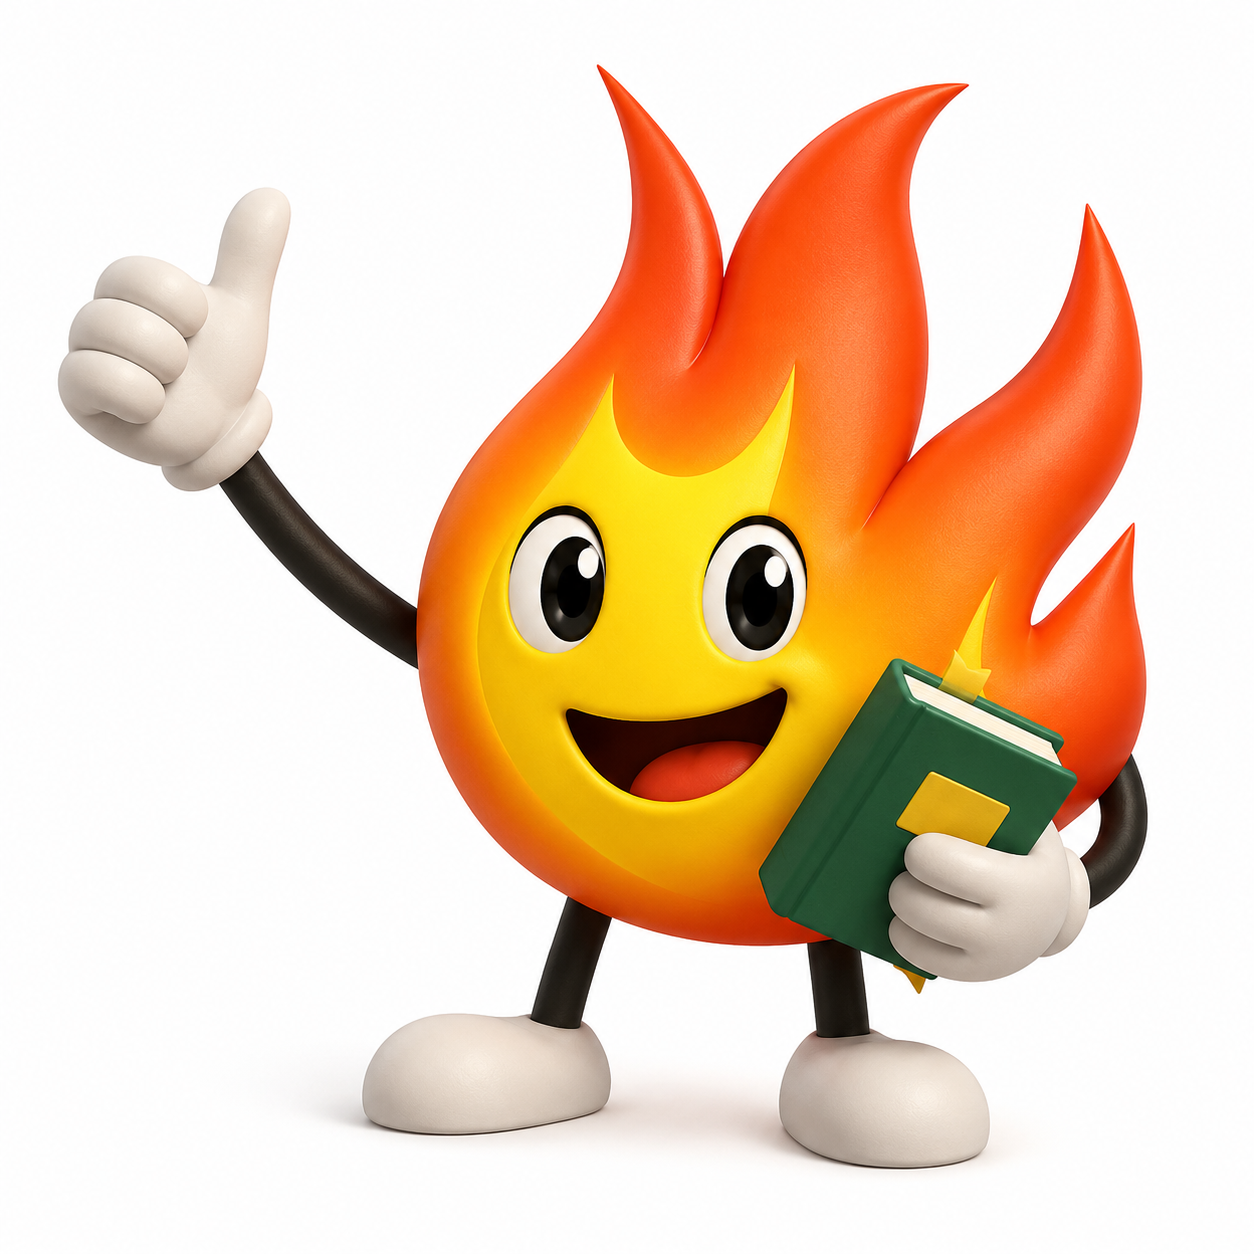
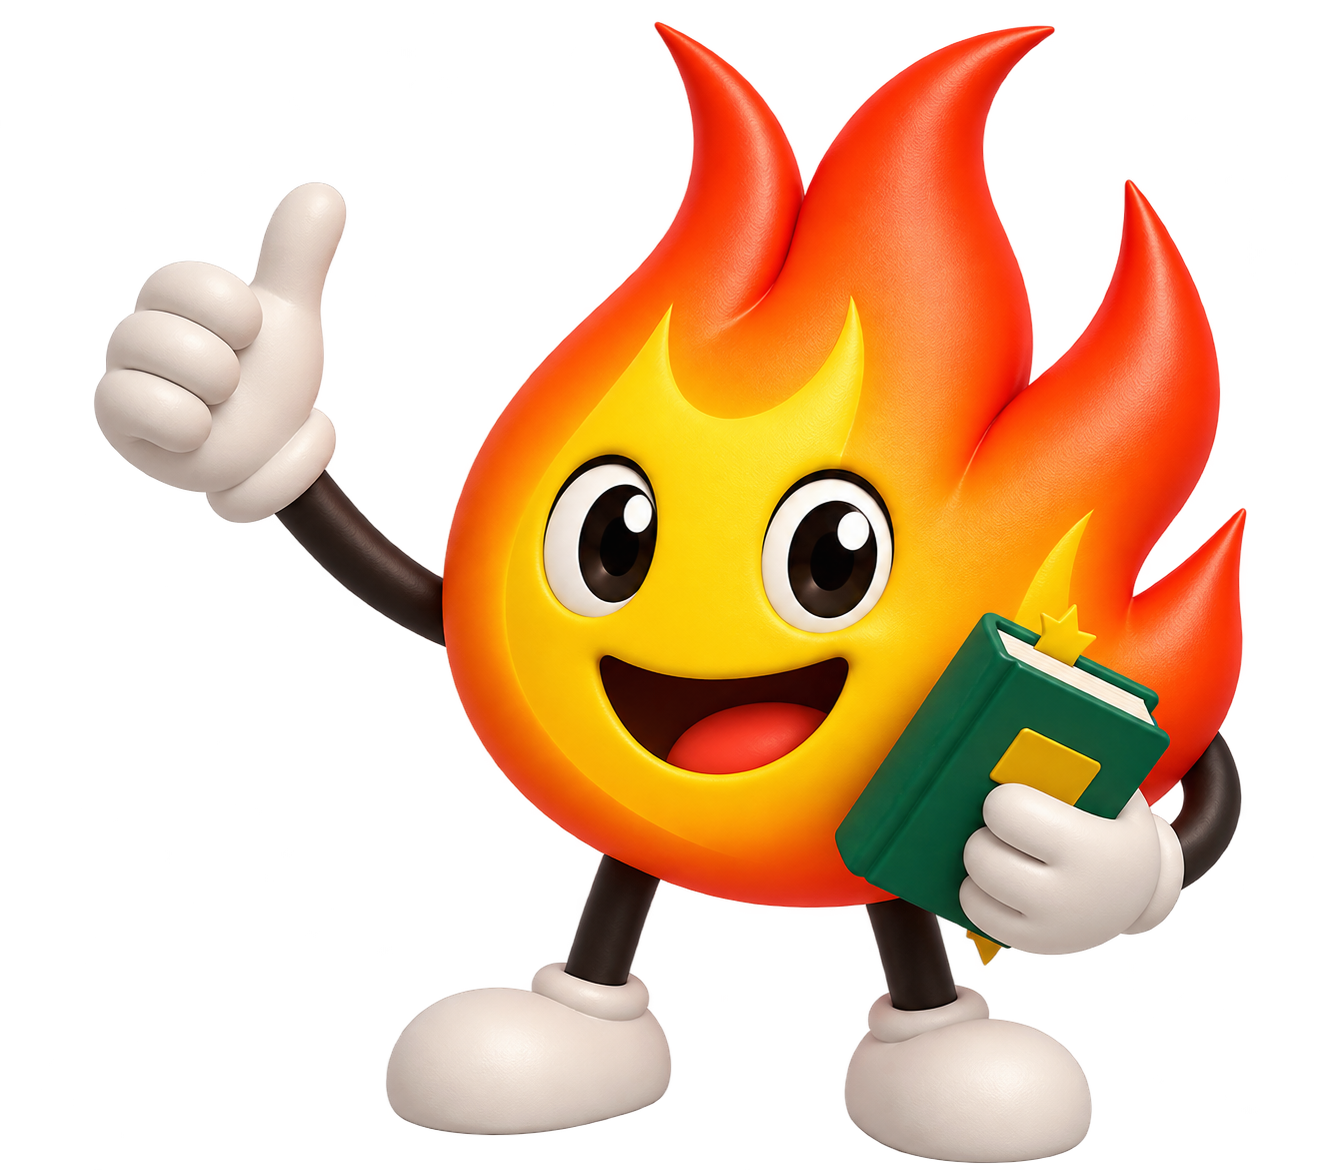
feat(ui): implement mascot FAB chat button with hover lift animation & warm glowing aura light

Changed region(s): [[0.0311, 0.0, 0.933, 1.0]]

diff --git a/frontend/src/index.css b/frontend/src/index.css
@@ -660,30 +660,68 @@ html, body, #root {
   color: var(--text-heading);
 }
 
-/* ─── FLOATING CHAT BTN ───────────────────────────────────── */
+/* ─── FLOATING MASCOT CHAT BTN ───────────────────────────────────── */
 .fab-chat {
   position: fixed;
-  bottom: 32px;
-  right: 32px;
+  bottom: 30px;
+  right: 30px;
+  width: 66px;
+  height: 66px;
+  border-radius: 50%;
+  background: var(--nm-base);
+  box-shadow: var(--shadow-raise);
+  border: 2px solid rgba(255, 122, 0, 0.4);
+  cursor: pointer;
   display: flex;
   align-items: center;
-  gap: 10px;
-  padding: 14px 22px;
-  border-radius: var(--radius-pill);
-  background: linear-gradient(135deg, #FF7A00, #E65100);
-  box-shadow: 0 6px 20px rgba(255, 122, 0, 0.4);
-  border: none;
-  cursor: pointer;
-  font-family: 'DM Sans', sans-serif;
-  font-size: 15px;
-  font-weight: 700;
-  color: #ffffff;
-  transition: all 0.15s;
+  justify-content: center;
+  transition: transform 0.35s cubic-bezier(0.34, 1.56, 0.64, 1),
+              box-shadow 0.35s ease,
+              border-color 0.35s ease;
   z-index: 100;
+  padding: 6px;
+  outline: none;
 }
 
-.fab-chat:hover { box-shadow: var(--shadow-raise); }
-.fab-chat:active { box-shadow: var(--shadow-inset-sm); }
+.fab-chat .mascot-img {
+  width: 100%;
+  height: 100%;
+  object-fit: contain;
+  filter: drop-shadow(0 4px 6px rgba(0, 0, 0, 0.15));
+  transition: transform 0.35s cubic-bezier(0.34, 1.56, 0.64, 1),
+              filter 0.35s ease;
+}
+
+.fab-chat .online-dot {
+  position: absolute;
+  top: 2px;
+  right: 2px;
+  width: 14px;
+  height: 14px;
+  border-radius: 50%;
+  background: #10B981;
+  border: 2.5px solid var(--nm-base);
+  box-shadow: 0 0 8px rgba(16, 185, 129, 0.7);
+}
+
+/* Hover: Mascot lifts up + soft glowing warm aura light */
+.fab-chat:hover {
+  transform: translateY(-8px) scale(1.08);
+  border-color: #FF7A00;
+  box-shadow: 0 12px 30px rgba(255, 122, 0, 0.5),
+              0 0 25px rgba(255, 122, 0, 0.35),
+              var(--shadow-raise);
+}
+
+.fab-chat:hover .mascot-img {
+  transform: translateY(-4px) scale(1.12);
+  filter: drop-shadow(0 8px 14px rgba(255, 122, 0, 0.45));
+}
+
+.fab-chat:active {
+  transform: translateY(-2px) scale(0.96);
+  box-shadow: var(--shadow-inset-sm);
+}
 
 /* ─── CHAT DIALOG ─────────────────────────────────────────── */
 .chat-overlay {

diff --git a/frontend/src/components/ChatDialog.tsx b/frontend/src/components/ChatDialog.tsx
@@ -35,11 +35,12 @@ export default function ChatDialog({ onClose }: ChatDialogProps) {
         {/* Header */}
         <div className="chat-header">
           <div style={{
-            width: 38, height: 38, borderRadius: '50%',
-            background: 'var(--gold)', boxShadow: 'var(--shadow-raise-sm)',
+            width: 42, height: 42, borderRadius: '50%',
+            background: 'var(--nm-base)', boxShadow: 'var(--shadow-raise-sm)',
             display: 'flex', alignItems: 'center', justifyContent: 'center',
+            padding: 4, overflow: 'hidden', flexShrink: 0,
           }}>
-            <Bot size={20} color="#2D3748" />
+            <img src="/macot_chatbot_icon.png" alt="AI Mascot" style={{ width: '100%', height: '100%', objectFit: 'contain' }} />
           </div>
           <div style={{ flex: 1 }}>
             <p className="font-heading" style={{ fontWeight: 700, color: 'var(--text-heading)', fontSize: 15 }}>

diff --git a/frontend/src/App.tsx b/frontend/src/App.tsx
@@ -74,10 +74,15 @@ export default function App() {
         )}
       </div>
 
-      {/* Floating Chat Button */}
-      <button className="fab-chat" onClick={() => setShowChat(true)}>
-        <MessageSquareCode size={18} strokeWidth={2.2} />
-        AI Tutor Chat
+      {/* Floating Mascot Chat Button */}
+      <button
+        className="fab-chat"
+        onClick={() => setShowChat(true)}
+        title="Tanya AI Tutor"
+        aria-label="AI Tutor Chatbot"
+      >
+        <img src="/macot_chatbot_icon.png" alt="AI Tutor Mascot" className="mascot-img" />
+        <span className="online-dot" />
       </button>
 
       {/* Chat Dialog */}
